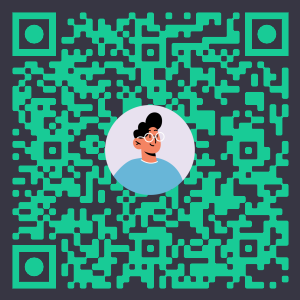
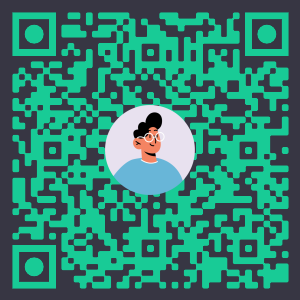
New mails | Checkout Success (Ticket)

diff --git a/resources/js/free_events.js b/resources/js/free_events.js
@@ -1,7 +1,6 @@
 import Swal from 'sweetalert2';
 
-const buyButton = document.querySelector('.freeEvent');
-console.log('He cargado');
+const buyButton = document.querySelector('.eventCkeckout');
 
 const showName = (event) => {
     event.preventDefault();
@@ -32,8 +31,6 @@ const showName = (event) => {
         }
     });
 }
-
-
 
 
 if (buyButton){

diff --git a/resources/css/app.css b/resources/css/app.css
@@ -155,6 +155,10 @@ SELECT {
     border-radius: 10px;
 }
 
+.event{
+    padding: 10px;
+}
+
 #reader * {
   font-family: inherit;
   box-sizing: border-box;

diff --git a/resources/views/front/subscription.blade.php b/resources/views/front/subscription.blade.php
@@ -3,12 +3,6 @@
 @section('titlePage', 'Suscripciones')
 
 @section('content')
-    @if(session('error'))
-        <script>
-            mylocalStorage = window.localStorage;
-            mylocalStorage.setItem('laravelError', "{{ session('error') }}");
-        </script>
-    @endif
     <div class="w-full flex flex-col items-center">
         <div class="app w-[85%] lg:w-[80%] flex flex-col items-center">
             
@@ -16,27 +10,12 @@
                 <div class="containerActualSub flex flex-col lg:flex-row w-[100%] lg:w-[50%] bg-gray-100 rounded-lg mt-4">
                     <div class="w-[100%] lg:w-[70%] p-5">
                         <p class="text-2xl">Tu suscripcion actual es: <span class="font-bold">{{ auth()->user()->subscription->name }}</span></p>
-                            <ul class="list-disc ml-8 mt-4 text-sm text-gray-800">
-                                <li class="text-base">Acceso completo a Coordify</li>
-
-                                @if (auth()->user()->subscription->event_limit === null)
-                                    <li class="text-base">Eventos ilimitados</li>
-                                @else
-                                    <li class="text-base">Hasta {{ auth()->user()->subscription->event_limit }} eventos</li>
-                                @endif
-
-                                @if (auth()->user()->subscription->event_promotion > 0)
-                                    <li class="text-base">Posibilidad de destacar hasta {{ auth()->user()->subscription->event_promotion }} evento{{ auth()->user()->subscription->event_promotion > 1 ? 's' : '' }}</li>
-                                @else
-                                    <li class="text-base">No incluye eventos destacados</li>
-                                @endif
-
-                                @if (auth()->user()->subscription->fee == 0)
-                                    <li class="text-base">Sin comisiones en eventos de pago</li>
-                                @else
-                                    <li class="text-base">Tarifa del {{ auth()->user()->subscription->fee }}% en los eventos de pago</li>
-                                @endif
-                            </ul>
+                        <ul class="list-disc ml-8 mt-4">
+                            <li>Uso completo y gratuito de Coordify</li>
+                            <li>Posibilidad de crear hasta 3 eventos</li>
+                            <li>Tarifa del 15% en los eventos de pago</li>
+                            <li>Sin tarjetas de debito o credito</li>
+                        </ul>
                     </div>
                     
                     <div class="w-[100%] lg:w-[30%] flex justify-center lg:justify-end px-12 items-center">
@@ -53,7 +32,7 @@
                 <div class="ContainerSubscriptions w-[100%] lg:w-[70%] flex flex-col lg:flex-row gap-6 mt-8 mb-12">
                     <div class="subSilver w-[100%] lg:w-[33%] bg-gray-100 py-8 px-8 rounded-lg flex flex-col gap-8">
                         <div>
-                            <h2 class="text-xl text-black">Plan plata | 5,99</h2>
+                            <h2 class="text-xl text-black">Plan plata | 5,99€</h2>
                             <ul class="list-disc ml-6 mt-4">
                                 <li>Hasta 8 eventos</li>
                                 <li>Posibilidad de destacar 1 evento</li>
@@ -74,7 +53,7 @@
                     </div>
                     <div class="subGold w-[100%] lg:w-[33%] bg-secundary py-8 px-8 rounded-lg flex flex-col gap-8 lg:scale-[1.04]">
                         <div>
-                            <h2 class="text-xl text-white">Plan oro | 12,99</h2>
+                            <h2 class="text-xl text-white">Plan oro | 12,99€</h2>
                             <ul class="list-disc ml-6 mt-4">
                                 <li class="text-white">Hasta 20 eventos</li>
                                 <li class="text-white">Posibilidad de destacar hasta 5 eventos</li>
@@ -94,7 +73,7 @@
                     </div>
                     <div class="subDiamond w-[100%] lg:w-[33%] bg-gray-100 py-8 px-8 rounded-lg flex flex-col gap-8">
                         <div>
-                            <h2 class="text-xl text-black">Plan diamante | 29,99</h2>
+                            <h2 class="text-xl text-black">Plan diamante | 29,99€</h2>
                             <ul class="list-disc ml-6 mt-4">
                                 <li>Eventos ilimitados</li>
                                 <li>Posibilidad de destacar hasta 15 eventos</li>

diff --git a/resources/views/emails/ticket-checkout-success.blade.php b/resources/views/emails/ticket-checkout-success.blade.php
@@ -1,0 +1,64 @@
+<!DOCTYPE html>
+<html lang="es">
+<head>
+  <meta charset="UTF-8">
+  <title>Entrada confirmada - Coordify</title>
+</head>
+<body style="font-family: Arial, sans-serif; background-color: #f4f4f4; margin: 0; padding: 0; color: #1c1c1c;">
+  <div style="max-width: 600px; margin: auto; background-color: #ffffff; border-radius: 12px; box-shadow: 0 5px 20px rgba(0,0,0,0.05); overflow: hidden;">
+
+    <div style="background-color: #ffffff; padding: 30px 0; text-align: center;">
+      <img src="https://coordify.logannr.me/img/logos/coordify.png" alt="Coordify" width="180" style="display: block; margin: 0 auto;">
+    </div>
+
+    <div style="padding: 30px;">
+      <h1 style="font-size: 22px; margin-bottom: 15px;">🎉 ¡Gracias por tu compra, {{ $participant->name }}!</h1>
+
+      <p style="font-size: 16px; line-height: 1.6; margin-bottom: 20px;">
+        Tu entrada para el evento <strong>{{ $event->name }}</strong> ha sido confirmada. A continuación te dejamos tu código QR. Guárdalo y preséntalo el día del evento.
+      </p>
+
+      <div style="text-align: center; margin: 25px 0;">
+        <img src="https://coordify.logannr.me/storage/{{ $participant->qr_code }}" alt="Código QR de tu entrada" style="width: 200px; border-radius: 8px;">
+      </div>
+
+      <table style="width: 100%; font-size: 15px; color: #333; margin-bottom: 25px;">
+        <tr>
+          <td style="padding: 6px 0;"><strong>Ubicación:</strong></td>
+          <td style="padding: 6px 0;">
+            <a href="https://www.google.com/maps/search/?api=1&query={{ urlencode($event->address . ', ' . $event->community) }}" target="_blank" style="text-decoration: underline;">
+              {{ $event->address }}, {{ $event->community }}
+            </a>
+          </td>
+        </tr>
+        <tr>
+          <td style="padding: 6px 0;"><strong>Fecha:</strong></td>
+          <td style="padding: 6px 0;">
+            {{ date('d/m/Y', strtotime($event->startDate)) }}
+            {{ $event->startTime ? ' - ' . date('H:i', strtotime($event->startTime)) : '' }}
+          </td>
+        </tr>
+        <tr>
+          <td style="padding: 6px 0;"><strong>Email:</strong></td>
+          <td style="padding: 6px 0;">{{ $participant->email }}</td>
+        </tr>
+      </table>
+
+      <div style="text-align: center; margin: 30px 0;">
+        <a href="https://coordify.logannr.me/events/view/{{ $event->id }}" style="display: inline-block; background-color: #0f9d58; color: white; padding: 12px 24px; border-radius: 8px; text-decoration: none; font-weight: bold;">
+          Ver evento
+        </a>
+      </div>
+
+      <p style="font-size: 14px; line-height: 1.6; color: #777; text-align: center;">
+        Puedes mostrar el código QR desde tu móvil o llevarlo impreso. ¡Nos vemos pronto!
+      </p>
+    </div>
+
+    <div style="padding: 20px; text-align: center; font-size: 13px; color: #999;">
+      © {{ now()->year }} Coordify. Todos los derechos reservados.
+    </div>
+
+  </div>
+</body>
+</html>

diff --git a/app/Http/Controllers/paymentController.php b/app/Http/Controllers/paymentController.php
@@ -10,6 +10,8 @@ use Stripe\Stripe;
 use Stripe\Subscription;
 use Stripe\Checkout\Session;
 use Illuminate\Routing\Controller;
+use Illuminate\Support\Facades\Mail;
+use App\Mail\TicketCheckoutSuccess;
 
 class paymentController extends Controller
 {
@@ -81,7 +83,7 @@ class paymentController extends Controller
             }
 
             $event = Event::findOrFail($eventId);
-            $customerEmail = $session->customer_details->email; // 🎯 Aquí tienes el correo
+            $customerEmail = $session->customer_details->email;
             $user = auth()->user();
 
             // Verifica si ya existe un participante con esta sesión
@@ -107,15 +109,15 @@ class paymentController extends Controller
                 $event->participants()->attach($participant->id);
             
                 $user_qr =  bcrypt("Participant:" . $participant->id . $participant->name . '_' . "Event:" . $eventId);
-                $filePath = 'qrs/' . $participant->id . $participant->name . '/qr.png';
+                $filePath = 'qrs/' .  $participant->id . '/' . $user_qr . '/qr.png';
                 Storage::disk('public')->put($filePath, QRCodeController::generate($user_qr));
                 $participant->qr_code = $filePath;
                 $participant->qr_decode = $user_qr;
                 $participant->save();
-    
+
             }
 
-
+            Mail::to($participant->email)->send(new TicketCheckoutSuccess($participant, $event));
             return view('checkout.success', [
                 'event' => $event,
                 'qr_code' => $participant->qr_code ?? 'example'

diff --git a/app/Mail/TicketCheckoutSuccess.php b/app/Mail/TicketCheckoutSuccess.php
@@ -1,0 +1,61 @@
+<?php
+
+namespace App\Mail;
+
+use Illuminate\Bus\Queueable;
+use Illuminate\Contracts\Queue\ShouldQueue;
+use Illuminate\Mail\Mailable;
+use Illuminate\Mail\Mailables\Content;
+use Illuminate\Mail\Mailables\Envelope;
+use Illuminate\Queue\SerializesModels;
+
+class TicketCheckoutSuccess extends Mailable
+{
+    use Queueable, SerializesModels;
+
+    public $participant;
+    public $event;
+
+    /**
+     * Create a new message instance.
+     */
+    public function __construct($participant, $event)
+    {
+        $this->participant = $participant;
+        $this->event = $event;
+    }
+
+    /**
+     * Get the message envelope.
+     */
+    public function envelope(): Envelope
+    {
+        return new Envelope(
+            subject: 'Entrada confirmada',
+        );
+    }
+
+    /**
+     * Get the message content definition.
+     */
+    public function content(): Content
+    {
+        return new Content(
+            view: 'emails.ticket-checkout-success',
+            with: [
+                'participant' => $this->participant,
+                'event' => $this->event,
+            ],
+        );
+    }
+
+    /**
+     * Get the attachments for the message.
+     *
+     * @return array<int, \Illuminate\Mail\Mailables\Attachment>
+     */
+    public function attachments(): array
+    {
+        return [];
+    }
+}

diff --git a/resources/views/front/show.blade.php b/resources/views/front/show.blade.php
@@ -70,7 +70,7 @@
                 </div>
 
                 <div class="flex flex-wrap gap-4 mt-6">
-                    <a class="py-3 px-12 bg-primary text-white rounded-full shadow hover:bg-opacity-90 transition-all {{ $event->paymentType === 'free' ? 'freeEvent' : '' }}" 
+                    <a class="py-3 px-12 bg-primary text-white rounded-full shadow hover:bg-opacity-90 transition-all eventCkeckout }}" 
                        href="{{ route('payment.checkout', ['id' => $event->id]) }}">
                         Comprar
                     </a>
